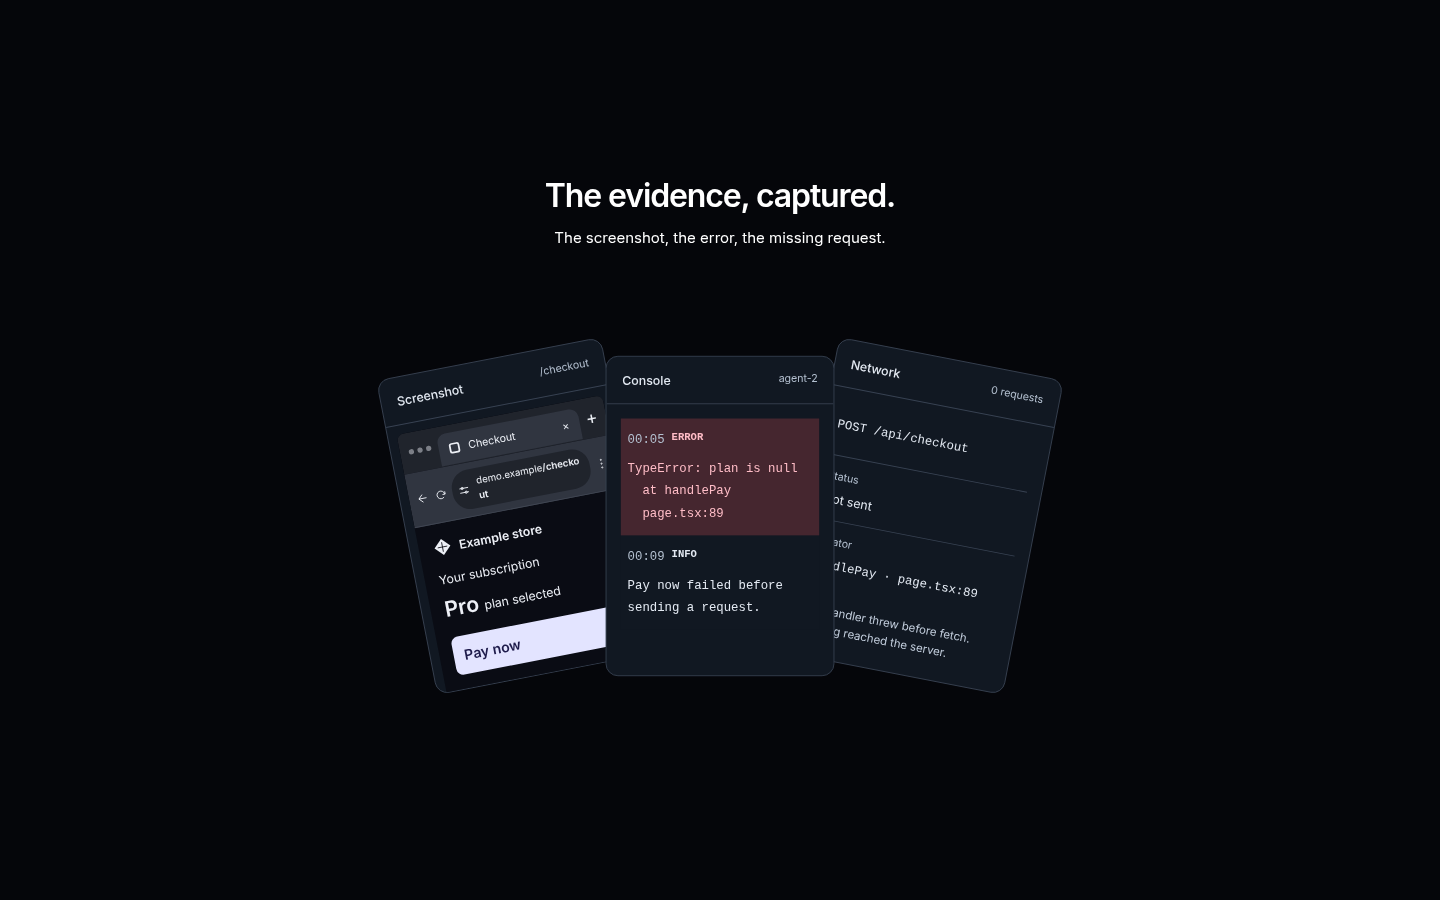
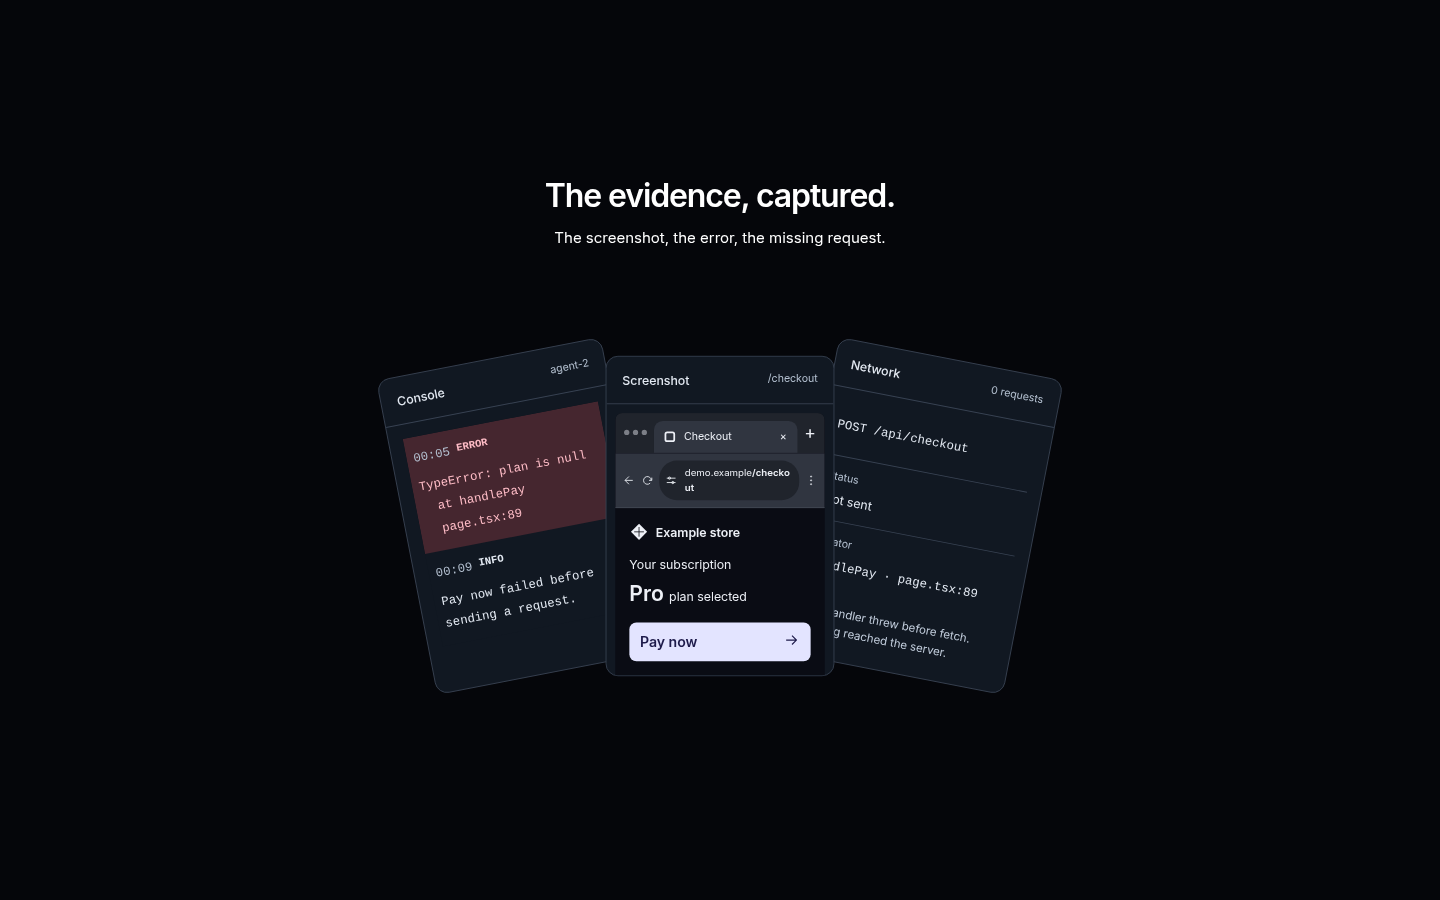
Balance evidence window sizes and center the screenshot in the opening fan

Changed region(s): [[0.2812, 0.4044, 0.5938, 0.7467], [0.5312, 0.4044, 0.5625, 0.4356], [0.4375, 0.4044, 0.4688, 0.4356]]

diff --git a/components/RunScrollSequence.tsx b/components/RunScrollSequence.tsx
@@ -90,23 +90,33 @@ export default function RunScrollSequence({
         const captionHeight =
           fan.closest<HTMLElement>(".run-scene-content")!.offsetHeight -
           fan.offsetHeight;
-        const availableWidth = window.innerWidth - 32;
-        const availableHeight = window.innerHeight - 32;
+        const availableWidth = window.innerWidth - 48;
+        const availableHeight = window.innerHeight - 64;
+        const browserWidth = Math.min(960, availableWidth);
+        const compact = availableWidth < 520;
         const windows = [
-          { width: availableWidth, height: availableHeight },
           {
-            width: Math.min(1000, availableWidth),
-            height: Math.min(600, availableHeight - 32),
+            width: browserWidth,
+            height: Math.min(
+              availableHeight,
+              Math.max(440, browserWidth * 0.625),
+            ),
           },
           {
-            width: Math.min(1200, availableWidth),
-            height: Math.min(720, availableHeight - 16),
+            width: Math.min(640, availableWidth),
+            height: Math.min(availableHeight, compact ? 360 : 300),
+          },
+          {
+            width: Math.min(720, availableWidth),
+            height: Math.min(availableHeight, compact ? 420 : 360),
           },
         ];
         cards.forEach((card, index) => {
-          let side = index - 1;
+          // Screenshot starts in the middle and stays there for its first expansion.
+          let side = [0, -1, 1][index];
           if (front >= 0)
-            side = index === front ? 0 : (index - front + 3) % 3 === 1 ? 1 : -1;
+            side =
+              index === front ? 0 : index === (front === 0 ? 1 : 0) ? -1 : 1;
           const focused = index === front;
           card.dataset.front = String(focused);
           const parked = front >= 0 && !focused;
@@ -128,7 +138,7 @@ export default function RunScrollSequence({
             "--card-y",
             `${focused ? -captionHeight / 2 : 14}px`,
           );
-          card.style.zIndex = String(focused ? 4 : index === 1 ? 2 : 1);
+          card.style.zIndex = String(focused ? 4 : index === 0 ? 3 : 1);
         });
       }
     };

diff --git a/docs/landing-review/README.md b/docs/landing-review/README.md
@@ -1,6 +1,6 @@
 # Scroll-driven evidence fan
 
-The evidence step now shows three portrait cards instead of tabs: Screenshot, Console and Network. They unfold into a left/center/right fan. Continued scrolling morphs the selected card from playing-card proportions into its own browser or tool-window dimensions. The browser fills the viewport with a 16px margin; Console opens up to 1000×600 and Network up to 1200×720, constrained to fit the screen. Other cards retain their playing-card proportions and move to the viewport edges. Reverse scrolling returns to the fan. No glow, tint or highlight marks the selected card. The heading stays anchored; the three cards share a fixed-height stage.
+The evidence step now shows three portrait cards instead of tabs: Screenshot, Console and Network. They unfold with Screenshot centered and unrotated, Console on the left, and Network on the right. Screenshot is also stacked above the other two, so the first expansion starts in place. Continued scrolling morphs the selected card from playing-card proportions into its own browser or tool-window dimensions. The browser targets a 960×600 desktop window (16:10), Console 640×300, and Network 720×360. On narrower screens the windows fit the available width and retain enough height for readable content, instead of filling the viewport. Other cards retain their playing-card proportions and move to the viewport edges. Reverse scrolling returns to the fan. No glow, tint or highlight marks the selected card. The heading stays anchored; the three cards share a fixed-height stage.
 
 The browser, evidence, diagnosis and PR still form one centered pinned sequence. Evidence gets four scroll beats: fan opening, screenshot forward, console forward and network forward. The page releases after the PR. Native scrolling remains in place, and the floating site nav is hidden during the sequence.
 
@@ -30,7 +30,7 @@ These after images show the reduced-motion stacked fallback. Before images use t
 ## Verification
 
 - Installation, typecheck, production build and diff checks pass. The repository has no lint or test scripts.
-- All three viewport sizes in both themes: each card expands to its actual window dimensions; windows stay centered and inside the viewport; other cards park at the sides in playing-card proportions; reverse scrolling restores the fan; no clipped window content or horizontal document overflow. See expanded-verification.jsonl.
+- All three viewport sizes in both themes: each card expands to its actual window dimensions; windows stay centered and inside the viewport; other cards park at the sides in playing-card proportions; reverse scrolling restores the fan; no clipped window content or horizontal document overflow. The initial screenshot placement is also checked. See balanced-verification.jsonl.
 - Width, height and transform animate together over 700ms. The heading fades while a window is expanded so it stays out of the way. The pinned stage keeps its reserved height during the expansion.
 - Reduced motion and JavaScript-disabled checks confirm all three cards remain readable without transforms or pinning.
 - Axe WCAG A/AA checks, including text contrast, pass in both themes with no violations or incomplete checks. The stacked fallback exposes all three cards to the audit. See accessibility.jsonl.
